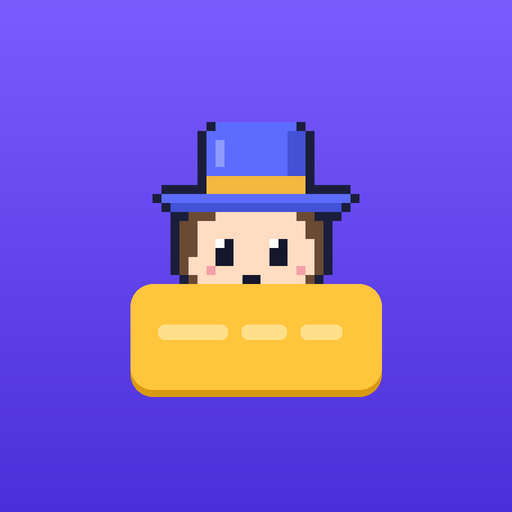
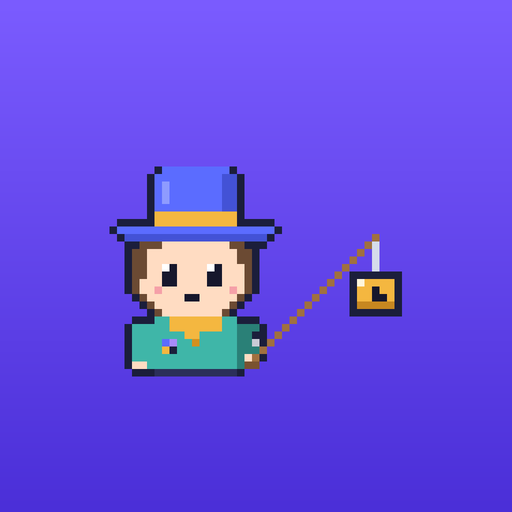
길잡이 낚싯대·시계 블록 미끼 시그니처, 내 캐릭터 유형별 소품 (2026.10.17-4)
- 길잡이: 모든 자세에서 낚싯대와 시계 블록 미끼, 앱 아이콘·스플래시에도 반영
- 내 캐릭터: 더 큰 체형, 재킷·크로스백·와이드 팬츠·운동화, 유형별 소품
- iOS 시작 화면 13종, 아이콘/maskable/favicon 교체, SW v18

Claude-Session: https://claude.ai/code/session_01QUqVz5ZF7EprnKi7EtJVJv

Changed region(s): [[0.2188, 0.2188, 0.8125, 0.7812]]

diff --git a/index.html b/index.html
@@ -1365,25 +1365,18 @@ h2{font-weight:800;letter-spacing:-.5px}
 
 <div id="splash" aria-hidden="true">
 <style>
-#splash{position:fixed;inset:0;z-index:100;background:#5B3DF5;display:flex;flex-direction:column;align-items:center;justify-content:center;gap:16px;padding-bottom:8vh;overflow:hidden;transition:opacity .34s ease,transform .34s ease;cursor:pointer;-webkit-user-select:none;user-select:none}
+#splash{position:fixed;inset:0;z-index:100;background:#5B3DF5;display:flex;flex-direction:column;align-items:center;justify-content:center;gap:28px;overflow:hidden;transition:opacity .34s ease,transform .34s ease;cursor:pointer;-webkit-user-select:none;user-select:none}
 #splash.out{opacity:0;transform:scale(1.04);pointer-events:none}
-#splash .sp-glow{position:absolute;left:50%;bottom:-34%;width:160%;height:70%;transform:translateX(-50%);border-radius:50%;background:radial-gradient(closest-side,rgba(255,150,100,.45),rgba(255,150,100,0))}
-.sp-stage{position:relative;width:184px;height:200px}
-.sp-clip{position:absolute;left:0;right:0;top:0;height:132px;overflow:hidden}
-.sp-mc{position:absolute;left:23px;top:0;width:138px;height:144px;animation:sp-rise .6s steps(6,end) .1s both}
-.sp-mc img{position:absolute;inset:0;width:138px;height:144px;image-rendering:pixelated;image-rendering:crisp-edges}
-.sp-mc .h{opacity:0;animation:sp-hi .1s steps(1,end) .9s forwards}
-.sp-mc img:first-child{animation:sp-lo .1s steps(1,end) .9s forwards}
-.sp-box{position:absolute;left:0;top:108px;width:184px;height:78px;border-radius:17px;background:#FFC53D;box-shadow:0 6px 0 #D99A12}
-.sp-box i{position:absolute;top:31px;height:11px;border-radius:6px;background:#FFE08A}
-.sp-name{position:relative;font:850 34px/1.1 "Pretendard Variable",Pretendard,-apple-system,"Apple SD Gothic Neo",system-ui,sans-serif;color:#fff;letter-spacing:-1.4px;animation:sp-name .5s ease-out .38s both}
-@keyframes sp-rise{from{transform:translateY(100%)}to{transform:none}}
+.sp-mc{position:relative;width:210px;height:180px;margin-top:-6px;animation:sp-hop .36s steps(3,end) .75s}
+.sp-mc img{position:absolute;inset:0;width:210px;height:180px;image-rendering:pixelated;image-rendering:crisp-edges}
+.sp-mc .h{opacity:0;animation:sp-hi .1s steps(1,end) .75s forwards}
+.sp-mc img:first-child{animation:sp-lo .1s steps(1,end) .75s forwards}
+.sp-name{font:850 34px/1.1 "Pretendard Variable",Pretendard,-apple-system,"Apple SD Gothic Neo",system-ui,sans-serif;color:#fff;letter-spacing:-1.4px}
+@keyframes sp-hop{50%{transform:translateY(-10px)}}
 @keyframes sp-hi{to{opacity:1}}@keyframes sp-lo{to{opacity:0}}
-@keyframes sp-name{from{opacity:0;transform:translateY(10px)}to{opacity:1;transform:none}}
-@media (prefers-reduced-motion:reduce){.sp-mc,.sp-name,.sp-mc img{animation:none}#splash{transition:opacity .2s}}
+@media (prefers-reduced-motion:reduce){.sp-mc,.sp-mc img{animation:none}#splash{transition:opacity .2s}}
 </style>
-<div class="sp-glow"></div>
[2 lines of base64/hex data omitted]
 <b class="sp-name">다음 주</b>
 <script>(function(){var el=document.getElementById('splash'),t0=Date.now(),done=false,ready=false,
 rm=window.matchMedia&&matchMedia('(prefers-reduced-motion: reduce)').matches,MIN=rm?450:1450,metas=[].slice.call(document.querySelectorAll('meta[name=theme-color]')),olds=metas.map(function(m){return m.content;});
@@ -2942,7 +2935,7 @@ setInterval(()=>{
 },30000);
 
 /* pixel sprites (1x PNG), drawn for this app */
[2 lines of base64/hex data omitted]
 /* ================= v11 · sketch flow: life as blocks → talk a goal over → plan → week → today ================= */
 function goalsArr(){if(!Array.isArray(S.goals))S.goals=[];return S.goals;}
 function goalById(id){return id?goalsArr().find(g=>g.id===id)||null:null;}
@@ -4209,7 +4202,7 @@ function gameAct(a,d){
 
 /* ---------- AI server (outside the Claude app): same interface as `sample` ---------- */
 const AI_URL_DEFAULT='https://daeum-ai.jmingyu2006.workers.dev';
-const APP_VER='2026.10.17-3';
+const APP_VER='2026.10.17-4';
 let aiErr=null; /* last server failure, shown in the guide so a silent fallback is never a mystery */
 function aiErrText(e){if(!e)return '';const c=e.code;return c==='network'?'서버에 닿지 않았어요 ('+(e.msg||'네트워크')+')':c==='rate_limited'?'요청이 많아요':c==='parse'?'답을 읽지 못했어요':c==='empty'?'빈 답이 왔어요':'서버 오류 '+(e.status||'')+(e.detail?' '+e.detail:'');}
 function aiUrl(){const u=(S.setup&&S.setup.aiUrl)||'';if(u)return u;try{return localStorage.getItem('daeum-ai-url')||AI_URL_DEFAULT;}catch(e){return AI_URL_DEFAULT;}}
@@ -5534,7 +5527,7 @@ var _sprKey=null;function sprKey(src){if(!_sprKey){_sprKey={};for(const k in SPR
 function pxImg(src,w,cls,alt){
   const k=sprKey(src);
   if(k&&k.startsWith('i_')&&!isPixel()&&typeof VEC!=='undefined'&&VEC&&VEC[k])return '<span class="vi '+(cls||'')+'" style="width:'+w+'px;height:'+w+'px">'+VEC[k]+'</span>';
-  if(k){const n={g:34,ga:22,u:28}[k.split('_')[0]];if(n)w=Math.max(1,Math.round(w/n))*n;}
+  if(k){const z={g:[34,42,1],ga:[22,22,1],u:[28,36,2]}[k.split('_')[0]];if(z)w=Math.max(z[2],Math.round(w/z[0]))*z[1];}
   return '<img class="px '+(cls||'')+'" src="'+src+'" width="'+w+'" alt="'+esc(alt||'')+'"'+(alt?'':' aria-hidden="true"')+'>';
 }
 /* routine plants, vector */

diff --git a/sw.js b/sw.js
@@ -1,5 +1,5 @@
 // 앱 파일을 저장해 두고, 온라인이면 항상 새 버전을 먼저 가져옵니다.
-const V='daeum-v17';
+const V='daeum-v18';
 const CORE=['./','index.html','manifest.webmanifest','icons/icon-192.png','icons/icon-512.png','fonts/Galmuri11.woff2','fonts/Galmuri11-Bold.woff2','fonts/GalmuriMono11.woff2'];
 self.addEventListener('install',e=>{e.waitUntil(caches.open(V).then(c=>c.addAll(CORE)).then(()=>self.skipWaiting()))});
 self.addEventListener('activate',e=>{e.waitUntil(caches.keys().then(k=>Promise.all(k.filter(x=>x!==V).map(x=>caches.delete(x)))).then(()=>self.clients.claim()))});
